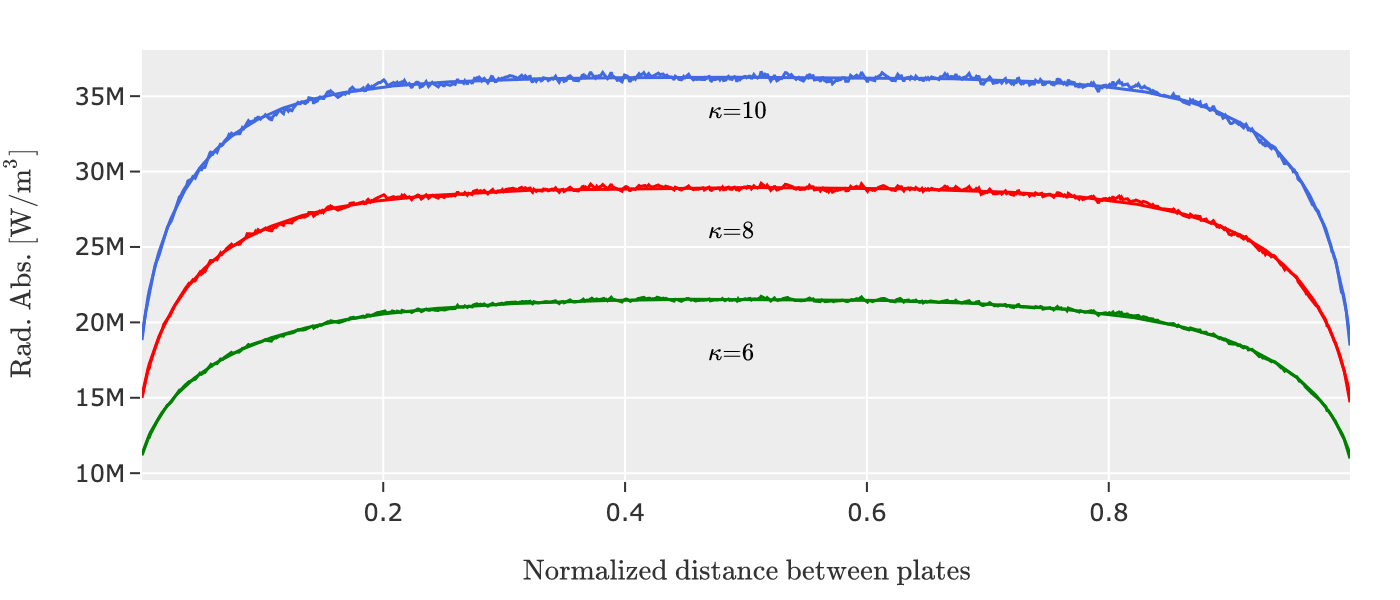
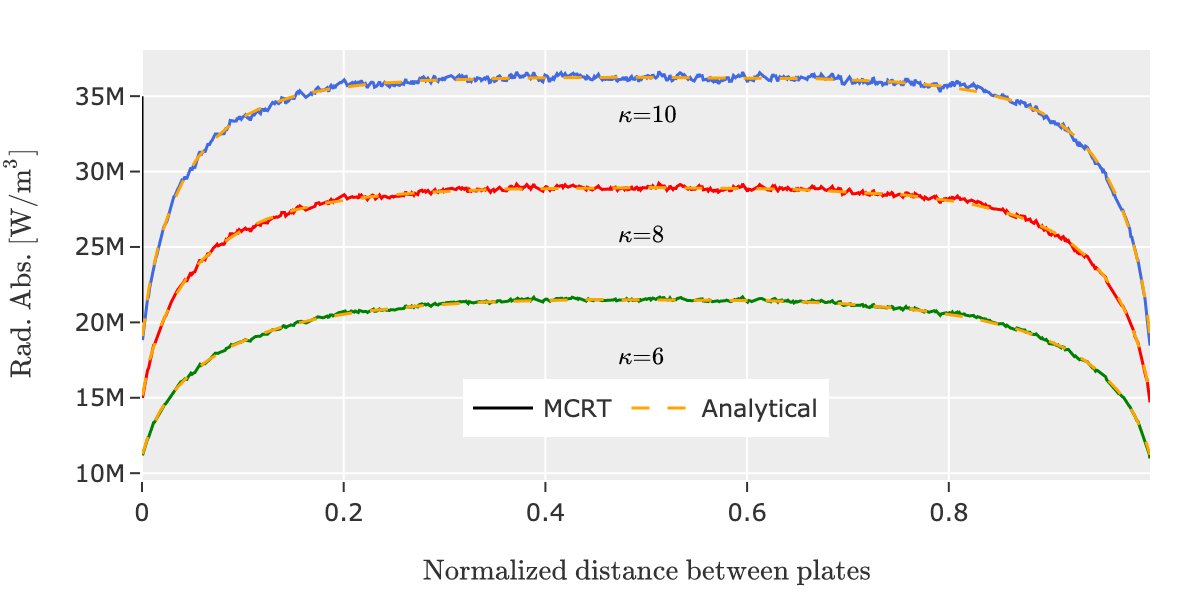
Recents

diff --git a/chapter4/ch4.tex b/chapter4/ch4.tex
@@ -1,46 +1,47 @@
 \addchapheadtotoc
 \chapter{Solver Performance}\label{chapter:Example}
 The complexity of the radiation solver resulting from both its theoretical foundation as well as its computational implementation calls for an extensive series of validation and performance studies.
-
-Three test geometries are presented in this chapter for verification and profiling using the two methods discussed in section \ref{section:ModelForThisStudy}. The new MCRT models using the bounding volume hierarchy approach will be refered to as MCRT-ArborX, and the model without will be referred to as MCRT-Kokkos. 
+Three test geometries are presented in this chapter for verification and profiling using the two methods discussed in section \ref{section:ModelForThisStudy}. The new MCRT models using the bounding volume hierarchy approach will be refered to as MCRT-ArborX, and the model without will be referred to as MCRT-Standard. 
 A well-established Fortran implementation developed over the course of many years will be used for comparison, and will be refered to as MCRT-Fort.
-The configurations include the canonical one-dimensional plane-parallel medium, a three-dimensional backward-facing step combustor, and a three-dimensional Pratt \& Whitney NEO aeronautical combustor. 
+The configurations include the canonical one-dimensional plane-parallel medium, a three-dimensional backward-facing step in high temperature flow, a time-accurate sooting turbulent pool fire, and a three-dimensional Pratt \& Whitney aeronautical combustor. 
 These three test cases provide an excellent basis to verify the solution methods and test their performances. 
 
 
 
 \section{One dimensional plane-parallel medium}
-The plane-parallel medium provides a useful, one dimensional case to test the MCRT code. The geometry is shown in figure \ref{fig:PlaneParallelGeometry}.
-
-The geometry consists of two parallel plates surrounding a radiatively-participating medium. The system is one-dimensional (implemented into OpenFOAM using either ray-reflections along the off-axis boundaries, or through a long stretch in both the Y and Z directions). The simulation is steady, and the walls are black-bodies (perfect absorbers and emitters).
+The plane-parallel medium provides a useful, one dimensional case to test the MCRT code. The geometry, shown in figure \ref{fig:PlaneParallelGeometry}, consists of two parallel plates surrounding a radiatively-participating medium. 
+The system is one-dimensional (implemented into OpenFOAM using either ray-reflections along the off-axis boundaries, or through a long stretch in both the Y and Z directions). The simulation is steady, and the walls are black-bodies (perfect absorbers and emitters).
 Using this configuration, the user can artificially select an absorption coefficient, $\kappa{}$, medium temperature, $T$, and wall temperatures $T_w$.
-
-Additionally, the relative simplicity of the configuration allows for reduced-complexity numerical solution described in appendix (IN APPENDIX OR PUT HERE?). 
-This "analytical" solution can be used for verification of the solver under variable absorption coefficient, temperatures, and scattering coefficient (not included in this model).
-
-The one-dimensional nature of the system also results in the least-ideal scaling for multi-node simulations. \textit{Provides useful understanding of how the runtime and memory usage scale for each solver under worst-case situations.}
+Additionally, the relative simplicity of the configuration allows for reduced-complexity numerical solution described in appendix CITE. 
+This "analytical" solution can be used for verification of the solver under variable absorption coefficients and temperatures.
 
 \subsection{Results}
-Figure \ref{fig:PP_kappatest} presents a comparison of the MCRT solutions alongside the analytical solutions. The configuration is tested under a variety of absorption coefficients, temperatures, and Monte-Carlo ray counts. The various case conditions are presented in table \ref{table:PPcomp}.
+Figures \ref{fig:PPcomp_kappa} to \ref{fig:PPcom_nrays} display comparisons of the MCRT solutions alongside the described analytical solutions. The configuration is tested under a variety of absorption coefficients, temperatures, and Monte-Carlo ray counts. The various case conditions are presented in table \ref{table:PPcomp}.
 
 \begin{figure}
-  \begin{subfigure}{1\textwidth}
-  \includegraphics[width=\linewidth]{figures/ch4/PPcomparison1.png}
-  \caption{Variable absorption coefficient with T=$2000$K, N$_r$=$1000$, N$_{cells}$=1000.}
-  \label{fig:PPcomp_kappa}
-  \end{subfigure}
-  \begin{subfigure}{1\textwidth}
-  \includegraphics[width=\linewidth]{figures/ch4/PPcomparison2.png}
-  \caption{Variable temperature with $\kappa{}$=$10$ m$^{-1}$, N$_r$=$1000$, N$_{cells}$=1000.}
-  \label{fig:PPcomp_temp}
-  \end{subfigure}
-  \begin{subfigure}{1\textwidth}
-  \includegraphics[width=\linewidth]{figures/ch4/PPcomparison3.png}
-  \caption{Variable number of rays emitted per cell (N$_r$) with $\kappa{}$=$10$ m$^{-1}$, T=$2000$K, N$_{cells}$=1000.}
-  \label{fig:PPcom_nrays}
-  \end{subfigure}
-  \label{fig:PPcomp}
+\includegraphics[width=\linewidth]{figures/ch4/PPcomparison1.png}
+\caption{Variable absorption coefficient with T=$2000$K, N$_r$=$1000$, N$_{cells}$=1000.}
+\label{fig:PPcomp_kappa}
 \end{figure}
+
+\begin{figure}
+\includegraphics[width=\linewidth]{figures/ch4/PPcomparison2.png}
+\caption{Variable temperature with $\kappa{}$=$10$ m$^{-1}$, N$_r$=$1000$, N$_{cells}$=1000.}
+\label{fig:PPcomp_temp}
+\end{figure}
+
+\begin{figure}
+\includegraphics[width=\linewidth]{figures/ch4/PPcomparison3.png}
+\caption{Variable number of rays emitted per cell (N$_r$) with $\kappa{}$=$10$ m$^{-1}$, T=$2000$K, N$_{cells}$=1000.}
+\label{fig:PPcom_nrays}
+\end{figure}
+
+% \begin{figure}
+
+
+
+%   \label{fig:PPcomp}
+% \end{figure}
 
 Results show excellent comparison between the MCRT and analytical implementations. 
 The lower ray counts show a higher degree of variability resulting from the stochastic nature of the MCRT method. 
@@ -48,13 +49,11 @@ Increasing absorption coefficient leads in an increase of radiative emission and
 
 These expected results demonstrate the requirement for RTE modeling in optically thick media. Not only does radiative emission result in heat loss from computational cells, but also the re-absorption can be high enough to require modeling of the self-absorption process of radiation.
 
-\subsection{Profiling}
-
-
 \section{Backward-Facing Step Combustor}
 The backward-facing step (BFS) combustor is a convenient configuration often used as a simple, repeatable geometry for a variety of studies in fluid dynamics.
-Numerous examples exist demonstrating its use for experimental and numerical investigations of turbulent flow~\cite{Armaly1983ExperimentalFlow,Neto1993AStep,Jovic1994Backward-facing5000,Le1997DirectStep}. Combined turbulent and high temperature flow~\cite{Niemann2016Buoyancy-affectedNumber,Xie2017GeometrySteps}, particularly with reactions~\cite{Pouech2021PremixedStep}.
-In the relatively few studies that exist, the addition of volumetric heating and composition changes resulting from the exothermic chemical reactions have been shown to influence the thermodynamic state and turbulence intensity of the fluid. Recent interest has emerged regarding the relative influence of radiation and convection along the walls many configurations, and the backward-facing step geometry provides a convenient approach for doing so.
+Numerous examples exist demonstrating its use for experimental and numerical investigations of turbulent flow~\cite{Armaly1983ExperimentalFlow,Neto1993AStep,Jovic1994Backward-facing5000,Le1997DirectStep}. In contrast, studies of combined turbulent and high temperature flow~\cite{Niemann2016Buoyancy-affectedNumber,Xie2017GeometrySteps}, and reacting flows~\cite{Pouech2021PremixedStep} over backward-facing steps have been modeled significantly less frequently.
+In the relatively few studies that exist, the addition of volumetric heating and composition changes resulting from the exothermic chemical reactions have been shown to influence the flow patterns and turbulence intensity of the fluid. 
+Recent interest has emerged regarding the relative influence of radiation and convection along the walls many configurations, and the backward-facing step geometry provides a convenient approach for doing so.
 
 \subsection{Case setup}
 \begin{figure}
@@ -106,32 +105,30 @@ The fluid is then quickly replaced by the new gas at the entrance, which results
 
 The turbulence present in the recirculation zone is apparent even in the emission contours as a result of the advection of elevated temperatures present. The secondary recirculation zone immediately present adjacent to the step displays lower levels of radiative emission resulting from its slower rate of fresh-gas replenishment.
 
-Figures \ref{fig:BFS_RadAbs}, \ref{fig:RadEmi}, and \ref{fig:RadSrc} show the radiative absorption, emission, and net energy source along the line shown in figure \ref{fig:BFS_geometry} using the different solvers for comparison. 
+Figures \ref{fig:BFS_RadAbs}, \ref{fig:BFS_RadEmi}, and \ref{fig:BFS_RadSrc} show the radiative absorption, emission, and net energy source along the line shown in figure \ref{fig:BFS_geometry} using the different solvers for comparison. 
 
+\begin{figure}[!ht]
+\includegraphics[width=\linewidth]{figures/ch4/LineComparison_RadAbs.png}
+\caption{}
+\label{fig:BFS_RadAbs}
+\end{figure}
 
-\begin{figure}
-  \begin{subfigure}{1\textwidth}
-  \includegraphics[width=\linewidth]{figures/ch4/LineComparison_RadAbs.png}
-  \caption{}
-  \label{fig:BFS_RadAbs}
-  \end{subfigure}
-  \begin{subfigure}{1\textwidth}
-  \includegraphics[width=\linewidth]{figures/ch4/LineComparison_RadEmi.png}
-  \caption{}
-  \label{fig:BFS_RadEmi}
-  \end{subfigure}
-  \begin{subfigure}{1\textwidth}
-  \includegraphics[width=\linewidth]{figures/ch4/LineComparison_RadSrc.png}
-  \caption{}
-  \label{fig:BFS_RadSrc}
-  \end{subfigure}
-  \label{fig:PPcomp}
+\begin{figure}[!ht]
+\includegraphics[width=\linewidth]{figures/ch4/LineComparison_RadEmi.png}
+\caption{Note: Same legend as in fig. \ref{fig:BFS_RadAbs}. All results overlap exactly.}
+\label{fig:BFS_RadEmi}
+\end{figure}
+
+\begin{figure}[!ht]
+\includegraphics[width=\linewidth]{figures/ch4/LineComparison_RadSrc.png}
+\caption{Note: Same legend as in fig. \ref{fig:BFS_RadAbs}. All results overlap exactly.}
+\label{fig:BFS_RadSrc}
 \end{figure}
 
 
 \subsection{Model Performance}
 The radiation was calculated using both new MCRT models as well as a well-established Fortran-based radiation model for comparison. Simulations were performed at the single time-step using both 1 ray per cell and 10 rays per cell for all solvers, and serial, OpenMP and Cuda were tested as Kokkos backends for the new MCRT. 
-Simulations were performed using a 72-core Intel(R) Xeon(R) Gold 5220 CPU shared-memory workstation for OpenMP calculations, and Cuda calculations were performed using Nvidia V100 GPUs from the high performance computer Narwhal operated by the defense supercomputing resource center~\cite{something}.
+Simulations were performed using a 72-core Intel(R) Xeon(R) Gold 5220 CPU shared-memory workstation for OpenMP calculations, and Cuda calculations were performed using NVIDIA V100 GPUs from the high performance computer Narwhal operated by the defense super-computing resource center~\cite{something}.
 
 Results are listed in tables \ref{table:BFS_runtime_table_1rpc} and \ref{table:BFS_runtime_table_10rpc} for 1 ray emitted per cell and 10 rays per cell, respectively. The performance of both the MCRT-Kokkos model and the MCRT-ArborX compare extremely well against the MCRT-Fort model for a serial calculation. A runtime improvement of 86\% is already observed before any parallel routines have even been applied.
 The dramatic speedup can be attributed to the improved mesh-transfer method implemented in the new MCRT methods. 
@@ -173,46 +170,25 @@ Within MCRT-Kokkos and MCRT-ArborX, runtimes are decreased as well, but to a low
 The usage of a GPU enabled a significant reduction in runtime as well. 
 
 
-
-\section{Pratt \& Whitney NEO Combustor}
-The Pratt \& Whitney NEO combustor provides a very realistic case to sample our radiation model on.
-
-\begin{table}[h!]
-\centering
-\begin{tabular}{||c c c c||} 
- \hline
- Col1 & Col2 & Col2 & Col3 \\ [0.5ex] 
- \hline\hline
- 1 & 6 & 87837 & 787 \\ 
- 2 & 7 & 78 & 5415 \\
- 3 & 545 & 778 & 7507 \\
- 4 & 545 & 18744 & 7560 \\
- 5 & 88 & 788 & 6344 \\ [1ex] 
- \hline
-\end{tabular}
-\caption{Runtime comparisons for the Pratt \& Whitney combustor geometry.}
-\label{table:PW_runtime_table}
-\end{table}
-
-
 \section{Small Pool Flame}
 The emission of radiation from a buoyant pool flame is of considerable interest to those in the field of fire research. 
-The relatively slow fluid motion alongside buoyancy-driven turbulent fluctuations provides a relevant surrogate to a real-world fire, and can be studied for the purpose of modeling for forest fires, house fires, and other hazardous combustion processes.
-
+The relatively slow fluid motion alongside buoyancy-driven turbulent fluctuations provides a realistic surrogate for many hazardous combustion scenarios such as forest fires and house fires.
 The high temperatures from the chemical reaction alongside the larger length scales also provide conveniently high radiative emissions alongside high optical thicknesses. 
-This results in a relevant example where a full RTE solution is a requirement, and a convenient sample case to demonstrate the use of the present radiation model.
+This results in a system with a high degree of radiation, and is therefore a convenient sample case to demonstrate the use of the present radiation model.
 
 \subsection{Case Setup}
-The simulation is based on the fireFoam tutorial case, smallPoolFlame3D in OpenFOAM, with a slight increase in mesh refinement. 
-A mass-source is provided through the inlet at the bottom of the domain, where a reaction is initiated. A turbulent premixed flame is then simulated with detailed chemistry for four seconds of physical time.
+The simulation is based on the fireFoam tutorial case, smallPoolFlame3D in \verb|OpenFOAM|, where mesh refinement has been doubled. 
+In the tutorial case, a mass-source is provided through the inlet at the bottom of the domain, where a reaction is initiated. A turbulent premixed flame is then simulated with infinitely-fast chemistry for four seconds of physical time.
+The simulation is run with radiation enabled, where the net radiation source terms are added to the CFD energy equation solution every timestep.
+Both a frozen-field analysis and a full time-accurate simulation are conducted. Figure \ref{fig:PoolFire_diagram} displays the timestep for the former.
 
-Figure \ref{fig:PoolFire_diagram} displays the timestep used for frozen field analysis of the pool flame. The domain is a cubic 1$\times$1$\times$1m domain with a grid consisting of 1,728,000 hexahedral cells with 120 divisions per side.
+The geometry is a cubic 1$\times$1$\times$1m domain with a grid consisting of 1,728,000 hexahedral cells with 120 divisions per side.
 10 rays are emitted and traced from each cell, irrespective of cell emission energy.
 This configuration is studied for both planck-mean gray and line-by-line spectral models, and no Turbulence-Radiation Interaction (TRI) is accounted for in this study.
 
 \begin{figure}
 \includegraphics[width=\linewidth]{figures/ch4/contour_early.png}
-\caption{An early timestep of the pool fire flame simulation. Isosurface is 0.03 CO$_2$ mass fraction colored by velocity magnitude. Axes dimensions are in meters.}
+\caption{An early timestep of the pool fire flame simulation. Isosurface is 0.03 CO$_2$ mass fraction colored by velocity magnitude in meters per second. Axes dimensions are in meters.}
 \label{fig:PoolFire_diagram}
 \end{figure}
 
@@ -226,8 +202,10 @@ The radiative emission contours drop towards the outer edges and top section of 
 \label{fig:PoolFire_radiationcontours}
 \end{figure}
 
-In order to better understand the influence of radiation within the flame, figure \ref{fig:PoolFire_quadcomparison} displays four relevant parameters for the radiation calculation. 
-The contours of temperature show the two streams of reacting flow billowing upwards as a result of the buoyant force induce on the lower-density regions.
+\subsubsection{Frozen field analysis}
+
+In order to better understand the influence of radiation within the flame, figure \ref{fig:PoolFire_quadcomparison} displays four relevant parameters for the radiation calculation within the frozen field analysis. 
+The contours of temperature show two sides of a hollow cylinder of reacting flow billowing upwards as a result of the buoyant force induce on the lower-density regions.
 The top-section of the mushroom contains an  flame-front which, towards the outer regions, slowly decreases in temperature and intensity as a result of momentum and molecular exchange with the surrounding quiescent region through viscous and diffusive effects.
 High temperature regions correlate strongly with the points of high emission, and the wings of the mushroom show a much stronger decay in emission as a result of the fourth power dependence of radiative emission with temperature.
 
@@ -247,9 +225,14 @@ Figure \ref{fig:PoolFire_lineplot} shows various normalized parameters along the
 Normalized temperature and product species mass fractions rise with increasing distance from the bottom surface, indicating reaction progression. 
 The volumetric emission and negative of radiative volume source (emission – absorption) appear to match as a result of the relatively weak influence of absorption.
 The Planck Mean absorption coefficient increases, then decreases despite the monotonically increasing mass fractions of the radiatively participating species (CO$_2$ and H$_2$O). This happens as a direct result of the increase in temperature. 
-The influence of temperature on absorption coefficient is complex and requires more detailed knowledge of spectroscopy, but generally speaking, the rotation partition function of molecular energy states of the participating species is responsible for the decrease of absorption coefficient at this temperature range \cite{Modest2013RadiativeTransfer}.
+The influence of temperature on absorption coefficient is complex, but for these conditions the rotation partition function of molecular energy states of the participating species is responsible for the decrease of absorption coefficient at this temperature range~\cite{Modest2013RadiativeTransfer}.
 Absorption follows the trend of planck-mean absorption coefficient, as expected for an gray model.
 
+\subsubsection{Time-accurate simulation}
+The same pool-fire is simulated from initial conditions until 4 seconds of physical time.
+The simulation is run with line-by-line accurate non-gray emission and radiation source terms are updated each simulation time-step. Chemistry is infinitely-fast, and the case setup is identical to that of the frozen-field analysis.
+
+Several timesteps of the time-accurate simulation are presented in 
 
 \begin{figure}
 \includegraphics[width=\linewidth]{figures/ch4/line_plot.png}
@@ -261,11 +244,44 @@ Absorption follows the trend of planck-mean absorption coefficient, as expected 
 In effort to demonstrate the scaling trend of the solution, the mesh density is varied. 
 Should we only be doing this for if we have the MPI thing implemented?
 
-\section{Additional profiling studies}
+\section{Pratt \& Whitney aircraft engine Combustor}
+A three dimensional Pratt \& Whitney combustor  \textbf{(Block C)}? geometry was next tested for verification and profiling of the present radiation model. Solver profiling is presented alongside general observations regarding the effects of radiation within the system.
+The combustor geometry follows a Rich-Quench-Lean (RQL) configuration, an optimal design for both emissions and stability.
+A single time-step from an LES of the combustor was taken for a frozen-field analysis. The effects of soot, spectral emission patterns, and wall-incident radiation were all captured within the model, and detailed account of these effects alongside profiling of the various parallel implementations of the model are presented as demonstration.
+The effects of liquid fuel spray on ray-scattering and absorption are neglected.
+
+The combustor geometry is constructed to for highly turbulent flow with a high degree of separation to allow for a sufficiently stabilized flame.
+A re-circulation zone immediately behind the inlet section induces a swirl which facilitates mixing of the reactants, and a downstream dilution hole results in a complex chemical mixing process for the remaining reactions to occur in a fuel-lean condition. 
 
 
-- Weak scaling study across many nodes
-- Strong scaling within a node, across many nodes
-    - Cubic domain, square domain
-    - Parallel plates
-    
+
+\subsection{Case setup}
+The combustor geometry is meshed into a grid of 16,373,876 hexahedral cells of varying shapes and sizes. The simulation is completed with adaptive emission.
+
+
+
+\textbf{Unknowns:}
+\begin{enumerate}
+    \item Was the LES conducted with an alternative radiation model previously?
+    \item Were spray droplets included in the study?
+\end{enumerate}
+
+Figure ref{} displays normalized temperature profiles throughout the combustor geometry.
+
+
+\begin{table}[h!]
+\centering
+\begin{tabular}{||c c c c||} 
+ \hline
+ Col1 & Col2 & Col2 & Col3 \\ [0.5ex] 
+ \hline\hline
+ 1 & 6 & 87837 & 787 \\ 
+ 2 & 7 & 78 & 5415 \\
+ 3 & 545 & 778 & 7507 \\
+ 4 & 545 & 18744 & 7560 \\
+ 5 & 88 & 788 & 6344 \\ [1ex] 
+ \hline
+\end{tabular}
+\caption{Runtime comparisons for the Pratt \& Whitney combustor geometry.}
+\label{table:PW_runtime_table}
+\end{table}

diff --git a/chapter3/ch3.tex b/chapter3/ch3.tex
@@ -177,7 +177,7 @@ A black surface is one that absorbs all incident radiation, and emits according 
 This could define a boundary to an open environment of surrounding, cold gas, a combustor boundary, or the high temperature boundaries of a rocket engine. 
 Under these conditions, a ray which intersects this boundary will be absorbed in its entirety, and an absorption profile can be determined by accumulating energy depositions along the exit faces along the boundary. The emission from a black surface is diffuse, and therefore defined by the random number relations for a diffuse emitter, eqs. \ref{eq:diffuse_emission_psi} and \ref{eq:diffuse_emission_theta}.
 \begin{equation}
-    \psi{}=2\pi{}\R{}_\psi
+    \psi{}=2\pi{}R_\psi
     \label{eq:diffuse_emission_psi}
 \end{equation}
 \begin{equation}
@@ -199,6 +199,13 @@ An example would be a mirror, or the smooth surface of water. Under these condit
     \Vec{\textbf{d}_e}=2(\Vec{\textbf{n}}\cdot\Vec{\textbf{d}_i})\Vec{\textbf{n}} -\Vec{\textbf{d}_i}
     \label{eq:specular_reflection}
 \end{equation}
+
+\subsubsection{Distributed memory implementation}
+Large scale simulations require large scale computers call High Performance Computers (HPCs). These systems are often comprised of a series of nodes, which can be thought of as separate computers with separate hardware and resources.
+Applying simulations to a large scale computing system requires the use of a Message Passing Interface (MPI) to facilitate communications between the nodes.
+Due to the separate memory allocations within the nodes, special attention must be paid towards implementing a solver which can be scaled to large node counts without introducing too much overhead due to MPI communication cost.
+ 
+
 
 \section{Accelerated approaches to MCRT}
 

diff --git a/chapter1/ch1.tex b/chapter1/ch1.tex
@@ -1,9 +1,9 @@
 \addchapheadtotoc
 
 \chapter{Introduction} \label{chapter:Introduction}
-Combustion has long been an effective means of energy conversion. Transportation systems, building heating and cooling, and power for electrical grids are just a few examples of it's many applications. Over 82\% of energy produced on earth is produced through combustion \cite{2021BpEnergy}. 
+Combustion has long been an effective means of energy conversion. Transportation systems, building heating and cooling, and power for electrical grids are just a few examples of its many applications. Over 82\% of energy produced on earth is produced through combustion \cite{2021BpEnergy}. 
 At the same time, the explosive nature of the process may also result in its unwanted presence (e.g. rocket explosions, forest fires, house-fires, detonative combustion).
-Combustion is therefore a process which both can be used and must be managed. 
+Combustion is therefore a process that both can be used and must be managed. 
 Meanwhile the ongoing focus to reduce global emissions also imposes restraints on combustion researchers and scientists. Pollutants such as CO${}_2$, nitrous oxides, and soot have been shown to have a negative influence on our environment.
 So while the energy storage and release mechanisms that accompany combustion prove convenient for a lot of systems, they simultaneously presents a challenge for engineers and researchers.
 The need for improvement management of thermal loads, greater interconnected transport systems, development of heat-resistant materials, and an ongoing push to reduce global emissions must be met with an enhanced understanding of these physical systems.

diff --git a/chapter2/ch2.tex b/chapter2/ch2.tex
@@ -7,7 +7,7 @@ Thermal radiation is the transfer of thermal energy through through electromagne
 Either perspective may be more convenient for a given circumstance, but both perspectives are required for a complete definition \cite{Modest2013RadiativeTransfer}. The transfer of energy occurs at the speed of light, which is $2.998 \times 10^8$ meters per second in a vacuum.
 Much faster than most processes, and often believed to be a theoretical speed limit of the universe.
 
-The effects of thermal radiation is can be seen in every day life. Common examples include the sun, a campfire, and a hot pavement. 
+The effects of thermal radiation can be seen in every day life. Common examples include the sun, a campfire, and a hot pavement. 
 Wavelengths are usually from picometers ($10^{-12}$ m) for gamma rays to megameters ($10^6$ m) for ultra-low frequency radio waves.
 For combustion systems, where temperatures typically fall between 2000 and 2500K, relevant wavelengths generally fall between 1 and 15 $\mu{}$m ($10^{-6}$ m), in the infrared and visible light parts of the spectrum \cite{Liu2020TheFlames}.
 
